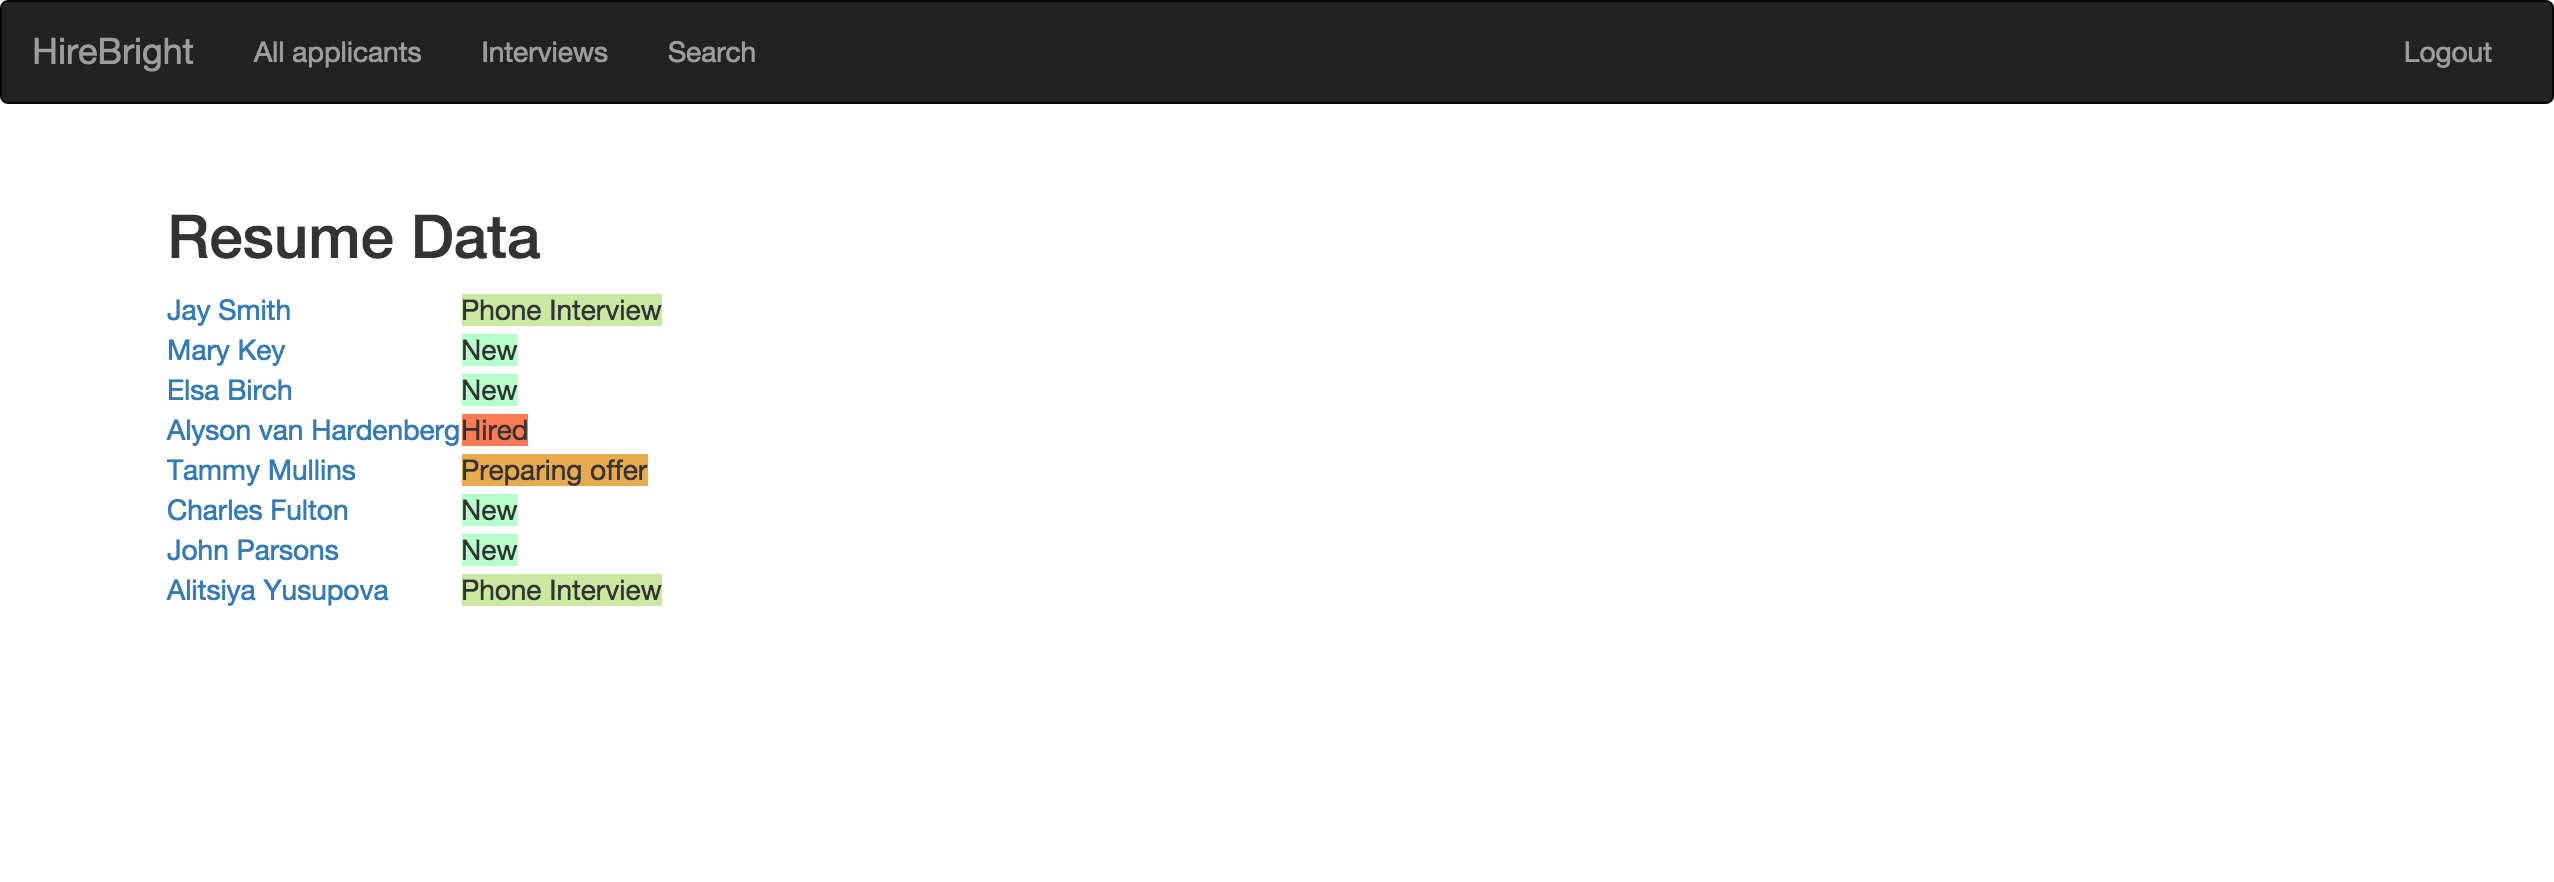
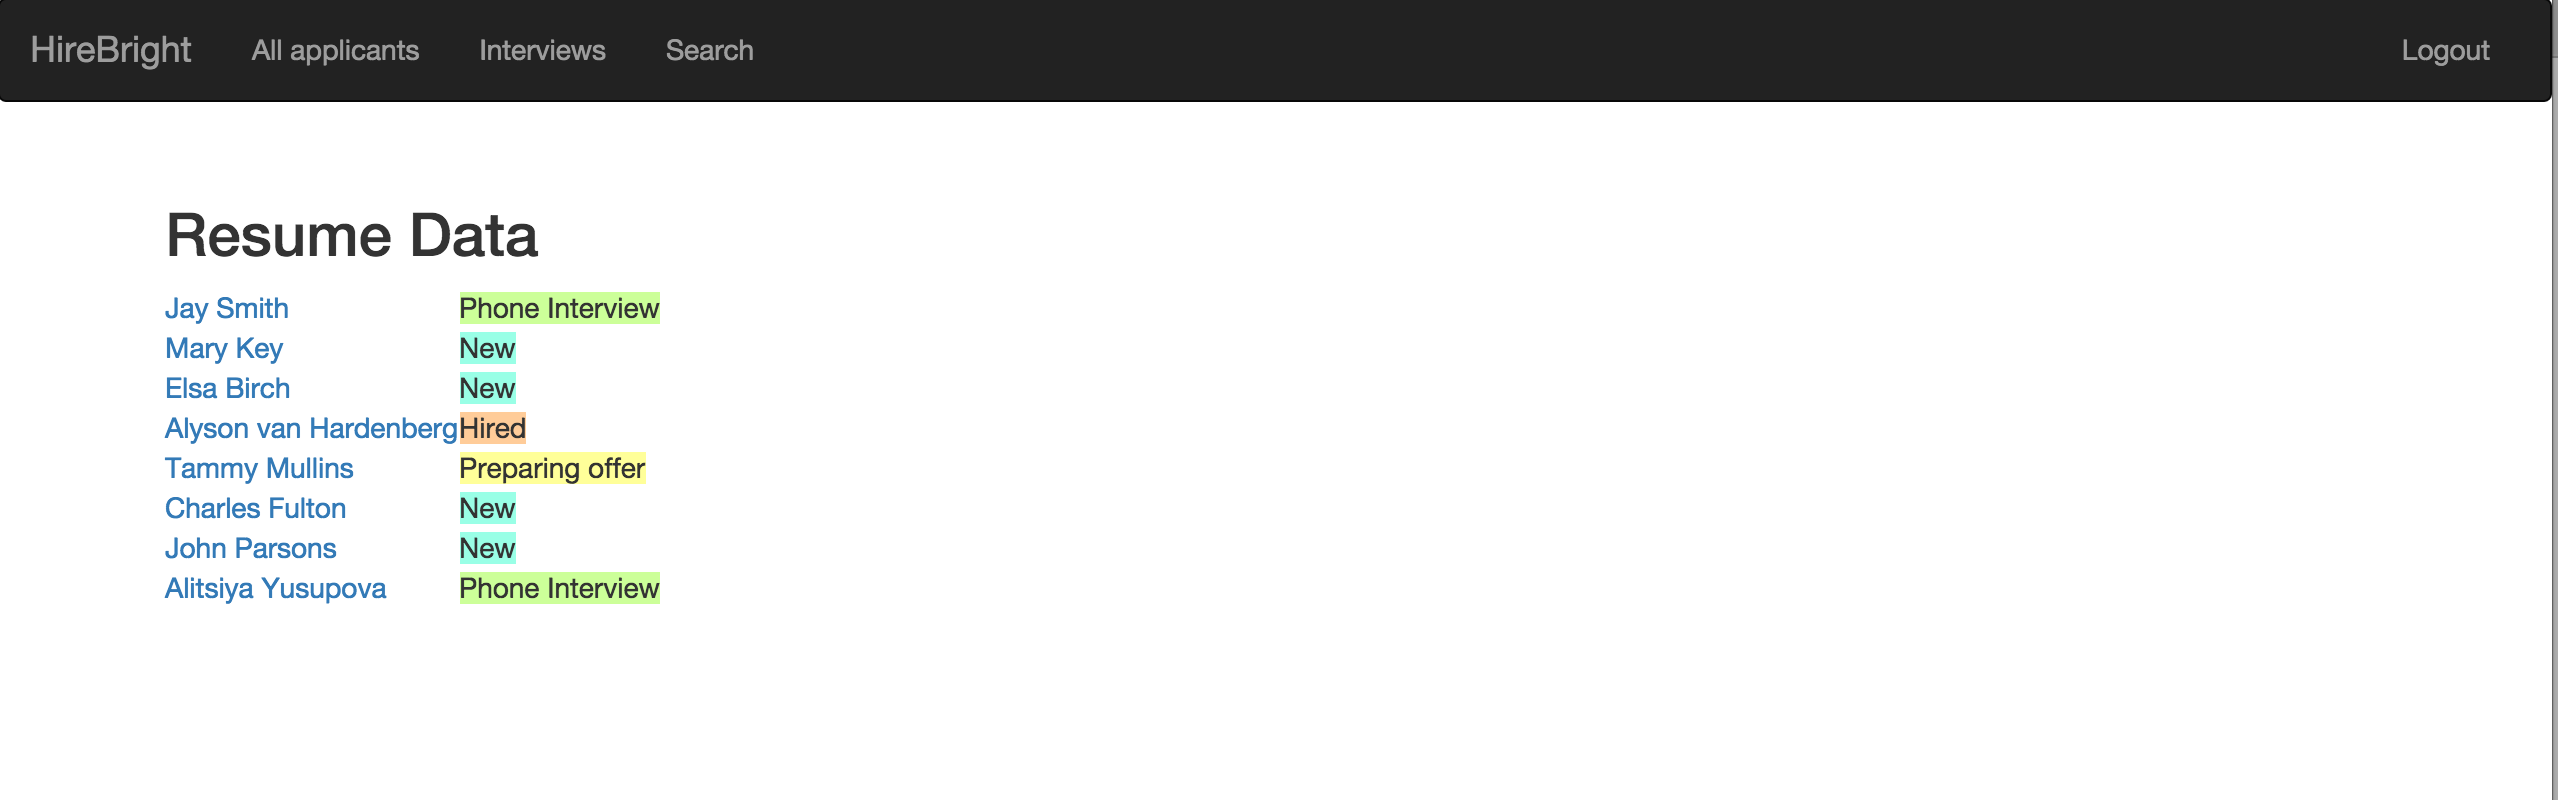
Final Readme

Changed region(s): [[0.0619, 0.25, 0.2784, 0.7812], [0.0, 0.0, 1.0, 1.0]]

diff --git a/static/styles.css b/static/styles.css
@@ -13,14 +13,14 @@ html {
 }
 
 .status-1 {
-    background-color: #e6ffe6;
+    background-color: #99ffe6;
 }
 .status-3 {
-    background-color: #ccffcc;
+    background-color: #ccff99;
 }
 .status-6 {
-    background-color: #b3ffb3;
+    background-color: #ffff99;
 }
 .status-7 {
-    background-color: #99ff99;
+    background-color: #ffcc99;
 }

diff --git a/README.md b/README.md
@@ -1,5 +1,5 @@
 #Project Description
-**HireBright** is an app that helps to connect applicants with recruiters. As an applicant you can submit your application and txt or pdf of your resume and see your application status. As a recruiter you have access to data of all applicants, you can schedule and cancel interviews, search for applicants and see results ordered by relevancy, see your upcoming and past interviews, and see applicant GitHub profile and resume. It has a pair programming tool to solve code challenges remotely in real time. The app also sends an SMS when an interview is scheduled via Twilio API. Passwords stored encrypted using *bcrypt*.
+**HireBright** is an app that helps to connect applicants with recruiters. As an applicant you can submit your application and txt or pdf of your resume and see your application status. As a recruiter you have access to data of all applicants, you can schedule and cancel interviews, search for applicants and see results ordered by relevancy, see your upcoming and past interviews, and see applicant GitHub profile and resume. It has a pair programming tool to solve code challenges remotely in real time. The app also sends an SMS when an interview is scheduled via Twilio API. Passwords in database are encrypted using *Bcrypt*.
 
 #Setup
 ##Dependencies and Compatibility
@@ -67,11 +67,10 @@ As recruiter UI:
 
 
 #Tech Stack
-Python, Flask, Websockets, JavaScript, AJAX/JSON, HTML, CSS, SQLAlchemy, PostgreSQL Full Text Search, Bootstrap
+Python, Flask, Websockets, JavaScript, AJAX/JSON, SQL, SQLAlchemy, PostgreSQL Full Text Search, Bcrypt, Bootstrap, HTML, CSS
 
 #APIs Used
-Twilio API
-Github API
+Twilio API, Github API
 
 #Developer
 **Alitsiya Yusupova** lives in San Francisco, CA. Check out her profile on [LinkedIn](https://www.linkedin.com/in/alitsiyayusupova).
